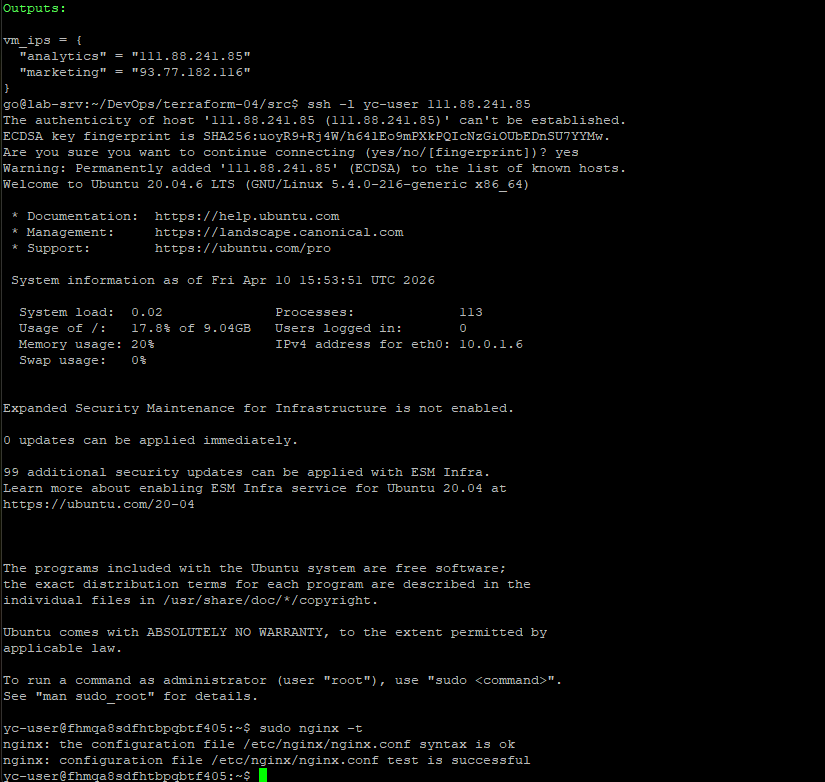
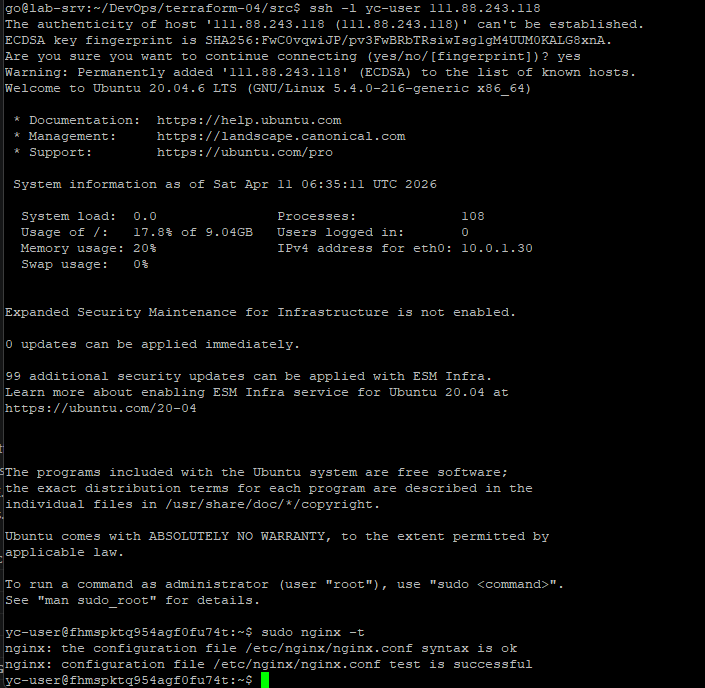
main

Changed region(s): [[0.0, 0.0, 0.905, 1.0], [0.6553, 0.3052, 0.7489, 0.3663]]

diff --git a/README.md b/README.md
@@ -3,9 +3,35 @@
 ### Задание 1
 - ```sudo nginx -t```
 ![alt text](images/1.png)
+![alt text](images/1.0.png)
 - скриншот консоли ВМ yandex cloud с их метками
 ![alt text](images/1.1.png)
-- terraform console
+![alt text](images/1.1.2.png)
+- ```terraform console```
 ![alt text](images/1.2.png)
 
 ### Задание 2
+- ```terraform console```
+![alt text](images/2.png)
+- [документация к модулю с помощью terraform-docs](src/modules/vpc/README.md)
+
+### Задание 3
+1. Вывод списка ресурсов в стейте
+   - ```terraform state list```
+![alt text](images/3.png)
+2. Полное удаление модулей из стейта
+   - ```terraform state rm module.vpc```
+![alt text](images/3.1.png)
+   - ```terraform state rm module.marketing_vm```
+![alt text](images/3.2.png)
+   - ```terraform state rm module.analytics_vm```
+![alt text](images/3.2.1.png)
+3. Импорт ресурсов обратно:
+   - Получение ID ресурсов:
+![alt text](images/3.3.png)
+   - Импорт сети и подсети (модуль vpc)
+![alt text](images/3.3.1.png)
+   - Импорт ВМ (модули marketing_vm и analytics_vm)
+![alt text](images/3.3.2.png)
+   - Проверка ```terraform plan```
+![alt text](images/3.3.3.png)
